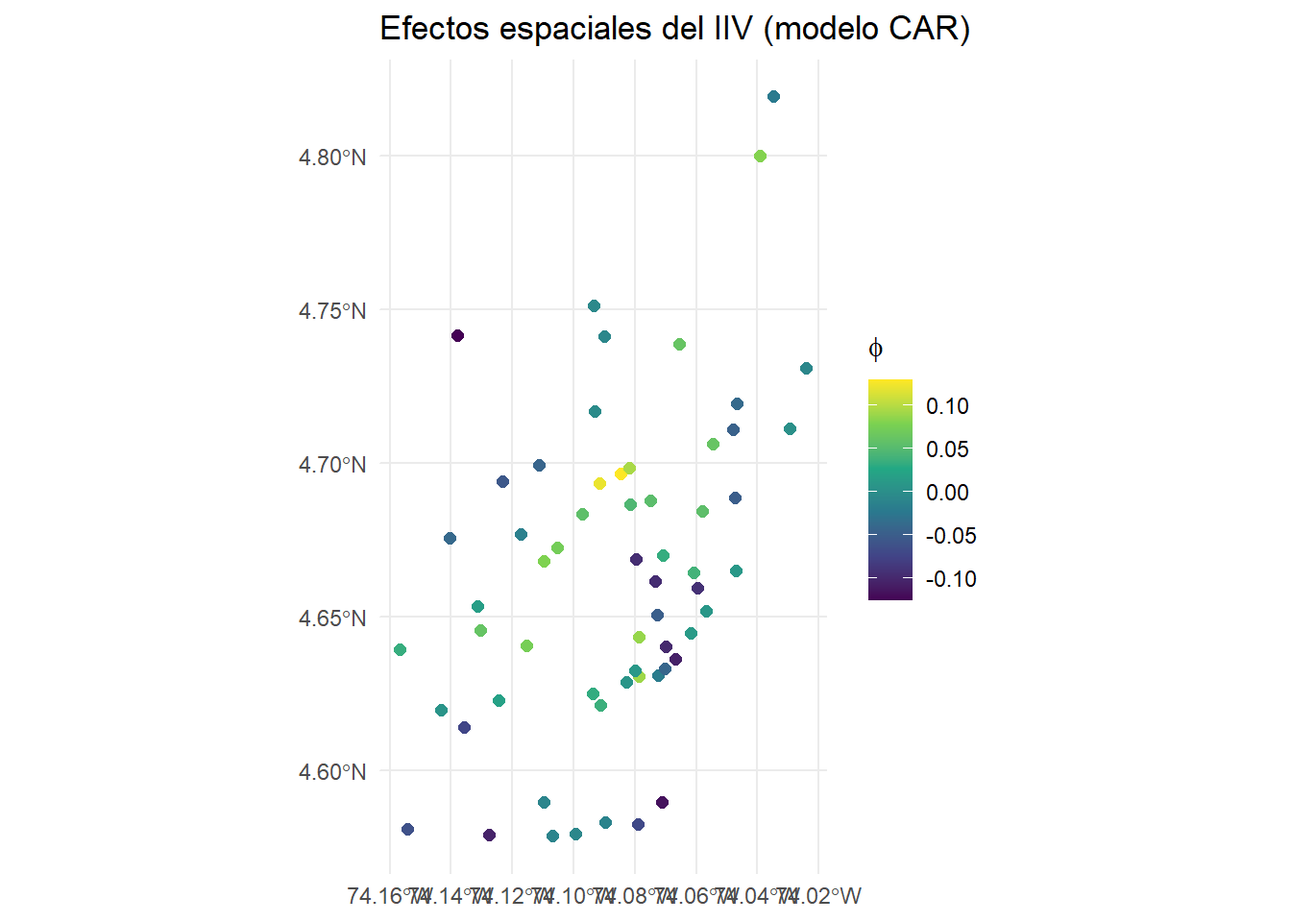
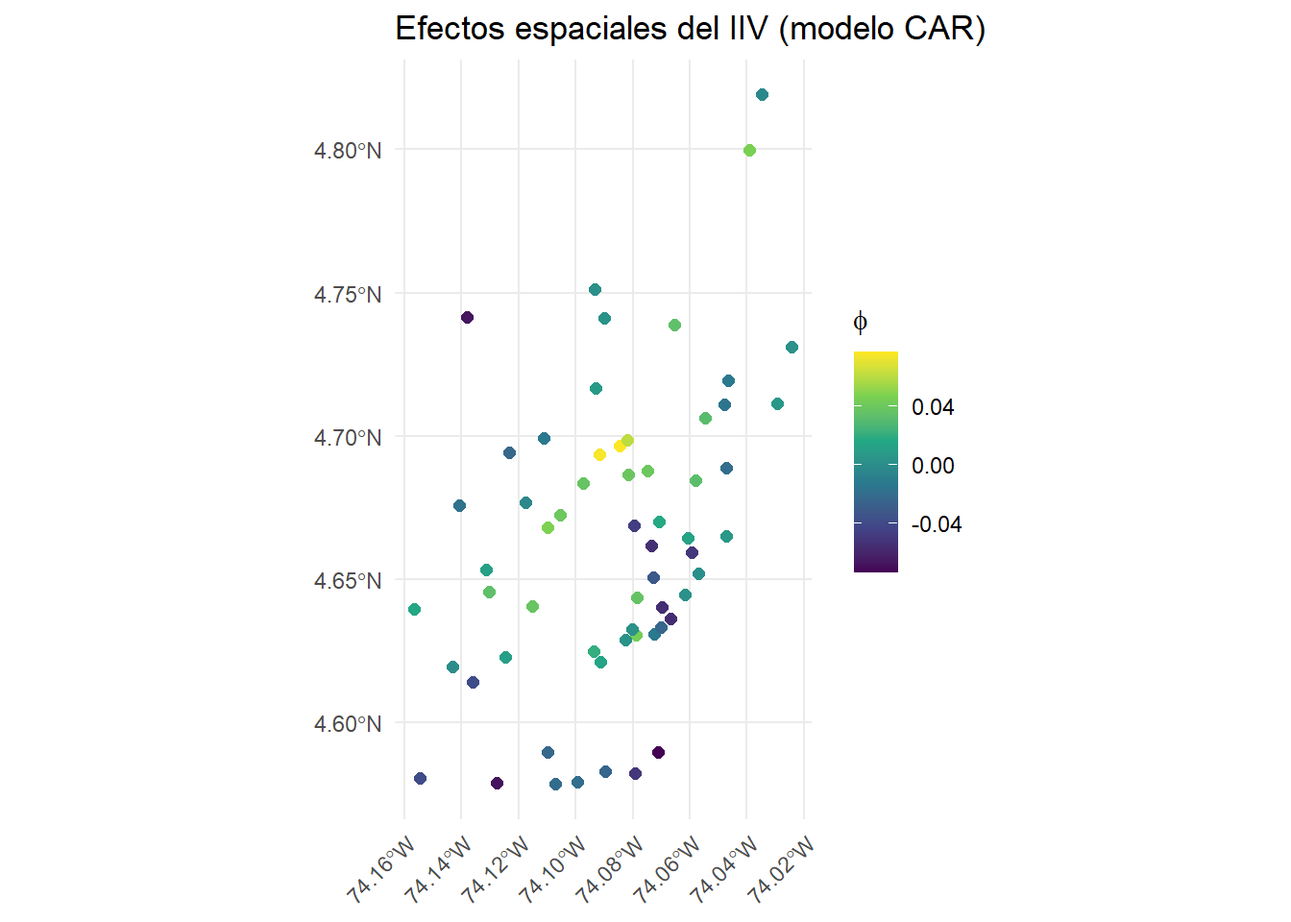
cambio bayesiano

diff --git a/docs/Est8/Bayesiano.html b/docs/Est8/Bayesiano.html
@@ -323,230 +323,23 @@ window.Quarto = {
 <section id="modelo-car-bayesiano" class="level2">
 <h2 class="anchored" data-anchor-id="modelo-car-bayesiano">Modelo CAR bayesiano</h2>
 <div class="cell">
-<div class="sourceCode cell-code" id="cb4"><pre class="sourceCode r code-with-copy"><code class="sourceCode r"><span id="cb4-1"><a href="#cb4-1" aria-hidden="true" tabindex="-1"></a>modelo <span class="ot">&lt;-</span> <span class="fu">S.CARleroux</span>(</span>
-<span id="cb4-2"><a href="#cb4-2" aria-hidden="true" tabindex="-1"></a>  <span class="at">formula  =</span> IIV <span class="sc">~</span> <span class="dv">1</span>,</span>
-<span id="cb4-3"><a href="#cb4-3" aria-hidden="true" tabindex="-1"></a>  <span class="at">family   =</span> <span class="st">"gaussian"</span>,</span>
-<span id="cb4-4"><a href="#cb4-4" aria-hidden="true" tabindex="-1"></a>  <span class="at">data     =</span> car_data,</span>
-<span id="cb4-5"><a href="#cb4-5" aria-hidden="true" tabindex="-1"></a>  <span class="at">W        =</span> W,</span>
-<span id="cb4-6"><a href="#cb4-6" aria-hidden="true" tabindex="-1"></a>  <span class="at">burnin   =</span> <span class="dv">100</span>,</span>
-<span id="cb4-7"><a href="#cb4-7" aria-hidden="true" tabindex="-1"></a>  <span class="at">n.sample =</span> <span class="dv">1000</span>,</span>
-<span id="cb4-8"><a href="#cb4-8" aria-hidden="true" tabindex="-1"></a>  <span class="at">thin     =</span> <span class="dv">1</span></span>
-<span id="cb4-9"><a href="#cb4-9" aria-hidden="true" tabindex="-1"></a>)</span></code><button title="Copy to Clipboard" class="code-copy-button"><i class="bi"></i></button></pre></div>
-<div class="cell-output cell-output-stdout">
-<pre><code>Setting up the model.
-
-Markov chain 1 - generating 900 post burnin and thinned samples.
-
-  |                                                                            
-  |                                                                      |   0%
-  |                                                                            
-  |=                                                                     |   1%
-  |                                                                            
-  |=                                                                     |   2%
-  |                                                                            
-  |==                                                                    |   3%
-  |                                                                            
-  |===                                                                   |   4%
-  |                                                                            
-  |====                                                                  |   5%
-  |                                                                            
-  |====                                                                  |   6%
-  |                                                                            
-  |=====                                                                 |   7%
-  |                                                                            
-  |======                                                                |   8%
-  |                                                                            
-  |======                                                                |   9%
-  |                                                                            
-  |=======                                                               |  10%
-  |                                                                            
-  |========                                                              |  11%
-  |                                                                            
-  |========                                                              |  12%
-  |                                                                            
-  |=========                                                             |  13%
-  |                                                                            
-  |==========                                                            |  14%
-  |                                                                            
-  |==========                                                            |  15%
-  |                                                                            
-  |===========                                                           |  16%
-  |                                                                            
-  |============                                                          |  17%
-  |                                                                            
-  |=============                                                         |  18%
-  |                                                                            
-  |=============                                                         |  19%
-  |                                                                            
-  |==============                                                        |  20%
-  |                                                                            
-  |===============                                                       |  21%
-  |                                                                            
-  |===============                                                       |  22%
-  |                                                                            
-  |================                                                      |  23%
-  |                                                                            
-  |=================                                                     |  24%
-  |                                                                            
-  |==================                                                    |  25%
-  |                                                                            
-  |==================                                                    |  26%
-  |                                                                            
-  |===================                                                   |  27%
-  |                                                                            
-  |====================                                                  |  28%
-  |                                                                            
-  |====================                                                  |  29%
-  |                                                                            
-  |=====================                                                 |  30%
-  |                                                                            
-  |======================                                                |  31%
-  |                                                                            
-  |======================                                                |  32%
-  |                                                                            
-  |=======================                                               |  33%
-  |                                                                            
-  |========================                                              |  34%
-  |                                                                            
-  |========================                                              |  35%
-  |                                                                            
-  |=========================                                             |  36%
-  |                                                                            
-  |==========================                                            |  37%
-  |                                                                            
-  |===========================                                           |  38%
-  |                                                                            
-  |===========================                                           |  39%
-  |                                                                            
-  |============================                                          |  40%
-  |                                                                            
-  |=============================                                         |  41%
-  |                                                                            
-  |=============================                                         |  42%
-  |                                                                            
-  |==============================                                        |  43%
-  |                                                                            
-  |===============================                                       |  44%
-  |                                                                            
-  |================================                                      |  45%
-  |                                                                            
-  |================================                                      |  46%
-  |                                                                            
-  |=================================                                     |  47%
-  |                                                                            
-  |==================================                                    |  48%
-  |                                                                            
-  |==================================                                    |  49%
-  |                                                                            
-  |===================================                                   |  50%
-  |                                                                            
-  |====================================                                  |  51%
-  |                                                                            
-  |====================================                                  |  52%
-  |                                                                            
-  |=====================================                                 |  53%
-  |                                                                            
-  |======================================                                |  54%
-  |                                                                            
-  |======================================                                |  55%
-  |                                                                            
-  |=======================================                               |  56%
-  |                                                                            
-  |========================================                              |  57%
-  |                                                                            
-  |=========================================                             |  58%
-  |                                                                            
-  |=========================================                             |  59%
-  |                                                                            
-  |==========================================                            |  60%
-  |                                                                            
-  |===========================================                           |  61%
-  |                                                                            
-  |===========================================                           |  62%
-  |                                                                            
-  |============================================                          |  63%
-  |                                                                            
-  |=============================================                         |  64%
-  |                                                                            
-  |==============================================                        |  65%
-  |                                                                            
-  |==============================================                        |  66%
-  |                                                                            
-  |===============================================                       |  67%
-  |                                                                            
-  |================================================                      |  68%
-  |                                                                            
-  |================================================                      |  69%
-  |                                                                            
-  |=================================================                     |  70%
-  |                                                                            
-  |==================================================                    |  71%
-  |                                                                            
-  |==================================================                    |  72%
-  |                                                                            
-  |===================================================                   |  73%
-  |                                                                            
-  |====================================================                  |  74%
-  |                                                                            
-  |====================================================                  |  75%
-  |                                                                            
-  |=====================================================                 |  76%
-  |                                                                            
-  |======================================================                |  77%
-  |                                                                            
-  |=======================================================               |  78%
-  |                                                                            
-  |=======================================================               |  79%
-  |                                                                            
-  |========================================================              |  80%
-  |                                                                            
-  |=========================================================             |  81%
-  |                                                                            
-  |=========================================================             |  82%
-  |                                                                            
-  |==========================================================            |  83%
-  |                                                                            
-  |===========================================================           |  84%
-  |                                                                            
-  |============================================================          |  85%
-  |                                                                            
-  |============================================================          |  86%
-  |                                                                            
-  |=============================================================         |  87%
-  |                                                                            
-  |==============================================================        |  88%
-  |                                                                            
-  |==============================================================        |  89%
-  |                                                                            
-  |===============================================================       |  90%
-  |                                                                            
-  |================================================================      |  91%
-  |                                                                            
-  |================================================================      |  92%
-  |                                                                            
-  |=================================================================     |  93%
-  |                                                                            
-  |==================================================================    |  94%
-  |                                                                            
-  |==================================================================    |  95%
-  |                                                                            
-  |===================================================================   |  96%
-  |                                                                            
-  |====================================================================  |  97%
-  |                                                                            
-  |===================================================================== |  98%
-  |                                                                            
-  |===================================================================== |  99%
-  |                                                                            
-  |======================================================================| 100%
-
-Summarising results.
-Finished in  0.5 seconds.</code></pre>
-</div>
+<div class="sourceCode cell-code" id="cb4"><pre class="sourceCode r code-with-copy"><code class="sourceCode r"><span id="cb4-1"><a href="#cb4-1" aria-hidden="true" tabindex="-1"></a><span class="fu">invisible</span>(</span>
+<span id="cb4-2"><a href="#cb4-2" aria-hidden="true" tabindex="-1"></a>  <span class="fu">capture.output</span>(</span>
+<span id="cb4-3"><a href="#cb4-3" aria-hidden="true" tabindex="-1"></a>    modelo <span class="ot">&lt;-</span> <span class="fu">S.CARleroux</span>(</span>
+<span id="cb4-4"><a href="#cb4-4" aria-hidden="true" tabindex="-1"></a>      <span class="at">formula  =</span> IIV <span class="sc">~</span> <span class="dv">1</span>,</span>
+<span id="cb4-5"><a href="#cb4-5" aria-hidden="true" tabindex="-1"></a>      <span class="at">family   =</span> <span class="st">"gaussian"</span>,</span>
+<span id="cb4-6"><a href="#cb4-6" aria-hidden="true" tabindex="-1"></a>      <span class="at">data     =</span> car_data,</span>
+<span id="cb4-7"><a href="#cb4-7" aria-hidden="true" tabindex="-1"></a>      <span class="at">W        =</span> W,</span>
+<span id="cb4-8"><a href="#cb4-8" aria-hidden="true" tabindex="-1"></a>      <span class="at">burnin   =</span> <span class="dv">100</span>,</span>
+<span id="cb4-9"><a href="#cb4-9" aria-hidden="true" tabindex="-1"></a>      <span class="at">n.sample =</span> <span class="dv">1000</span>,</span>
+<span id="cb4-10"><a href="#cb4-10" aria-hidden="true" tabindex="-1"></a>      <span class="at">thin     =</span> <span class="dv">1</span></span>
+<span id="cb4-11"><a href="#cb4-11" aria-hidden="true" tabindex="-1"></a>    )</span>
+<span id="cb4-12"><a href="#cb4-12" aria-hidden="true" tabindex="-1"></a>  )</span>
+<span id="cb4-13"><a href="#cb4-13" aria-hidden="true" tabindex="-1"></a>)</span></code><button title="Copy to Clipboard" class="code-copy-button"><i class="bi"></i></button></pre></div>
 </div>
 <p>Se estimó un modelo CAR de Leroux con una especificación gaussiana que incluye un intercepto y un término espacial estructurado. El objetivo es evaluar la presencia de autocorrelación espacial en el IIV promedio entre localidades vecinas.</p>
 <div class="cell">
-<div class="sourceCode cell-code" id="cb6"><pre class="sourceCode r code-with-copy"><code class="sourceCode r"><span id="cb6-1"><a href="#cb6-1" aria-hidden="true" tabindex="-1"></a><span class="fu">summary</span>(modelo)</span></code><button title="Copy to Clipboard" class="code-copy-button"><i class="bi"></i></button></pre></div>
+<div class="sourceCode cell-code" id="cb5"><pre class="sourceCode r code-with-copy"><code class="sourceCode r"><span id="cb5-1"><a href="#cb5-1" aria-hidden="true" tabindex="-1"></a><span class="fu">summary</span>(modelo)</span></code><button title="Copy to Clipboard" class="code-copy-button"><i class="bi"></i></button></pre></div>
 <div class="cell-output cell-output-stdout">
 <pre><code>                    Length Class      Mode     
 summary.results     28     -none-     numeric  
@@ -566,21 +359,23 @@ X                   60     -none-     numeric  </code></pre>
 <section id="efectos-espaciales-y-visualización" class="level2">
 <h2 class="anchored" data-anchor-id="efectos-espaciales-y-visualización">Efectos espaciales y visualización</h2>
 <div class="cell">
-<div class="sourceCode cell-code" id="cb8"><pre class="sourceCode r code-with-copy"><code class="sourceCode r"><span id="cb8-1"><a href="#cb8-1" aria-hidden="true" tabindex="-1"></a>theta_hat <span class="ot">&lt;-</span> <span class="fu">apply</span>(modelo<span class="sc">$</span>samples<span class="sc">$</span>phi, <span class="dv">2</span>, mean)</span>
-<span id="cb8-2"><a href="#cb8-2" aria-hidden="true" tabindex="-1"></a></span>
-<span id="cb8-3"><a href="#cb8-3" aria-hidden="true" tabindex="-1"></a>df<span class="sc">$</span>phi <span class="ot">&lt;-</span> theta_hat</span></code><button title="Copy to Clipboard" class="code-copy-button"><i class="bi"></i></button></pre></div>
+<div class="sourceCode cell-code" id="cb7"><pre class="sourceCode r code-with-copy"><code class="sourceCode r"><span id="cb7-1"><a href="#cb7-1" aria-hidden="true" tabindex="-1"></a>theta_hat <span class="ot">&lt;-</span> <span class="fu">apply</span>(modelo<span class="sc">$</span>samples<span class="sc">$</span>phi, <span class="dv">2</span>, mean)</span>
+<span id="cb7-2"><a href="#cb7-2" aria-hidden="true" tabindex="-1"></a></span>
+<span id="cb7-3"><a href="#cb7-3" aria-hidden="true" tabindex="-1"></a>df<span class="sc">$</span>phi <span class="ot">&lt;-</span> theta_hat</span></code><button title="Copy to Clipboard" class="code-copy-button"><i class="bi"></i></button></pre></div>
 </div>
 <div class="cell">
-<div class="sourceCode cell-code" id="cb9"><pre class="sourceCode r code-with-copy"><code class="sourceCode r"><span id="cb9-1"><a href="#cb9-1" aria-hidden="true" tabindex="-1"></a>df_sf <span class="ot">&lt;-</span> <span class="fu">st_as_sf</span>(df, <span class="at">coords =</span> <span class="fu">c</span>(<span class="st">"lon"</span>, <span class="st">"lat"</span>), <span class="at">crs =</span> <span class="dv">4326</span>)</span>
-<span id="cb9-2"><a href="#cb9-2" aria-hidden="true" tabindex="-1"></a></span>
-<span id="cb9-3"><a href="#cb9-3" aria-hidden="true" tabindex="-1"></a><span class="fu">ggplot</span>(df_sf) <span class="sc">+</span></span>
-<span id="cb9-4"><a href="#cb9-4" aria-hidden="true" tabindex="-1"></a>  <span class="fu">geom_sf</span>(<span class="fu">aes</span>(<span class="at">color =</span> phi), <span class="at">size =</span> <span class="dv">2</span>) <span class="sc">+</span></span>
-<span id="cb9-5"><a href="#cb9-5" aria-hidden="true" tabindex="-1"></a>  <span class="fu">scale_color_viridis_c</span>() <span class="sc">+</span></span>
-<span id="cb9-6"><a href="#cb9-6" aria-hidden="true" tabindex="-1"></a>  <span class="fu">labs</span>(</span>
-<span id="cb9-7"><a href="#cb9-7" aria-hidden="true" tabindex="-1"></a>    <span class="at">title =</span> <span class="st">"Efectos espaciales del IIV (modelo CAR)"</span>,</span>
-<span id="cb9-8"><a href="#cb9-8" aria-hidden="true" tabindex="-1"></a>    <span class="at">color =</span> <span class="fu">expression</span>(phi)</span>
-<span id="cb9-9"><a href="#cb9-9" aria-hidden="true" tabindex="-1"></a>  ) <span class="sc">+</span></span>
-<span id="cb9-10"><a href="#cb9-10" aria-hidden="true" tabindex="-1"></a>  <span class="fu">theme_minimal</span>()</span></code><button title="Copy to Clipboard" class="code-copy-button"><i class="bi"></i></button></pre></div>
+<div class="sourceCode cell-code" id="cb8"><pre class="sourceCode r code-with-copy"><code class="sourceCode r"><span id="cb8-1"><a href="#cb8-1" aria-hidden="true" tabindex="-1"></a>df_sf <span class="ot">&lt;-</span> <span class="fu">st_as_sf</span>(df, <span class="at">coords =</span> <span class="fu">c</span>(<span class="st">"lon"</span>, <span class="st">"lat"</span>), <span class="at">crs =</span> <span class="dv">4326</span>)</span>
+<span id="cb8-2"><a href="#cb8-2" aria-hidden="true" tabindex="-1"></a></span>
+<span id="cb8-3"><a href="#cb8-3" aria-hidden="true" tabindex="-1"></a><span class="fu">ggplot</span>(df_sf) <span class="sc">+</span></span>
+<span id="cb8-4"><a href="#cb8-4" aria-hidden="true" tabindex="-1"></a>  <span class="fu">geom_sf</span>(<span class="fu">aes</span>(<span class="at">color =</span> phi), <span class="at">size =</span> <span class="dv">2</span>) <span class="sc">+</span></span>
+<span id="cb8-5"><a href="#cb8-5" aria-hidden="true" tabindex="-1"></a>  <span class="fu">scale_color_viridis_c</span>() <span class="sc">+</span></span>
+<span id="cb8-6"><a href="#cb8-6" aria-hidden="true" tabindex="-1"></a>  <span class="fu">labs</span>(</span>
+<span id="cb8-7"><a href="#cb8-7" aria-hidden="true" tabindex="-1"></a>    <span class="at">title =</span> <span class="st">"Efectos espaciales del IIV (modelo CAR)"</span>,</span>
+<span id="cb8-8"><a href="#cb8-8" aria-hidden="true" tabindex="-1"></a>    <span class="at">color =</span> <span class="fu">expression</span>(phi)</span>
+<span id="cb8-9"><a href="#cb8-9" aria-hidden="true" tabindex="-1"></a>  ) <span class="sc">+</span></span>
+<span id="cb8-10"><a href="#cb8-10" aria-hidden="true" tabindex="-1"></a>  <span class="fu">theme_minimal</span>()<span class="sc">+</span> <span class="fu">theme</span>(</span>
+<span id="cb8-11"><a href="#cb8-11" aria-hidden="true" tabindex="-1"></a>    <span class="at">axis.text.x =</span> <span class="fu">element_text</span>(<span class="at">angle =</span> <span class="dv">45</span>, <span class="at">hjust =</span> <span class="dv">1</span>)</span>
+<span id="cb8-12"><a href="#cb8-12" aria-hidden="true" tabindex="-1"></a>  )</span></code><button title="Copy to Clipboard" class="code-copy-button"><i class="bi"></i></button></pre></div>
 <div class="cell-output-display">
 <div>
 <figure class="figure">

diff --git a/docs/Est8/index.html b/docs/Est8/index.html
@@ -341,7 +341,7 @@ Samuel A. Moreno
 </div>
 </div></a>
 </div>
-<div class="g-col-1" data-index="1" data-listing-file-modified-sort="1765773531784" data-listing-reading-time-sort="3" data-listing-word-count-sort="434">
+<div class="g-col-1" data-index="1" data-listing-file-modified-sort="1765774654767" data-listing-reading-time-sort="3" data-listing-word-count-sort="488">
 <a href="../Est8/Bayesiano.html" class="quarto-grid-link">
 <div class="quarto-grid-item card h-100 card-left">
 <p class="card-img-top"><img src="Bayesiano_files\figure-html\unnamed-chunk-7-1.png" style="height: 150px;"  class="thumbnail-image card-img"/></p>
